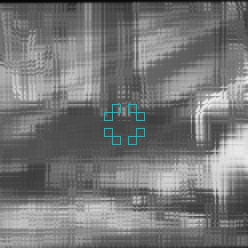
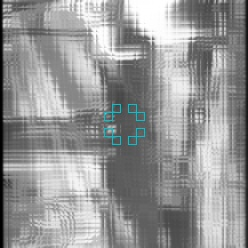
Cropped check 0 and 90

diff --git a/mainproc.py b/mainproc.py
@@ -58,7 +58,7 @@ def initialize_set(image):
         counter -= 1
         return
     crop = get_cropped()
-    #cv2.imwrite("cropped_blocked.jpg", crop)
+    cv2.imwrite("cropped_90.jpg", crop)
     set_initials(8, 4, 128, crop)
     sig = bitarray()
     try:
